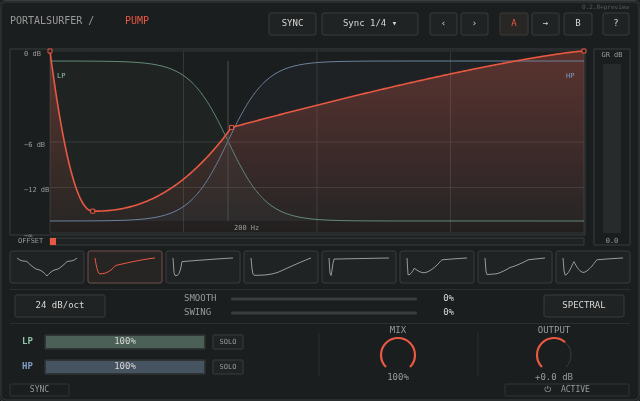
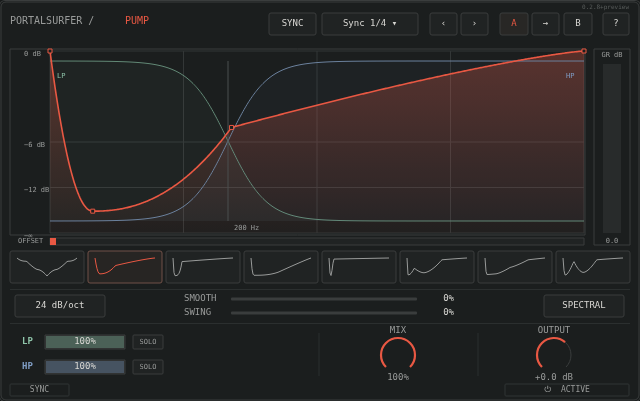
Halve LP/HP mix bar widths

diff --git a/frame-standalone.html b/frame-standalone.html
@@ -128,7 +128,7 @@ button:focus-visible, select:focus-visible { outline: 2px solid #e95843; outline
       for(let i=0;i<24;i++){const v=.12+.7*Math.exp(-Math.pow((i-9)/3,2));c.fillStyle='#526576';c.fillRect(435+i*5.5,83+35*(1-v),3,35*v);}text(c,'EXT · ILLUSTRATIVE',435,125,6,C.muted);
     }
     for(const dx of [319,478]){c.strokeStyle='#2b2f2f';c.beginPath();c.moveTo(dx,332);c.lineTo(dx,375);c.stroke();}
-    mixRow(c,'LP',22,341,1,C.low,126);mixRow(c,'HP',22,366,1,C.blue,126);knob(c,'MIX','100%',398,354,1);knob(c,'OUTPUT','+0.0 dB',554,354,.65);
+    mixRow(c,'LP',22,341,1,C.low,46);mixRow(c,'HP',22,366,1,C.blue,46);knob(c,'MIX','100%',398,354,1);knob(c,'OUTPUT','+0.0 dB',554,354,.65);
     rect(c,10,383,59,12,1,C.bg,'#303434');alignedText(c,'SYNC',39.5,389,8,C.muted);rect(c,505,383,124,12,1,C.bg,'#303434');alignedText(c,'⏻  ACTIVE',567,389,8,C.muted);
   }
   Frame.register({id:'pump',name:'Pump · Dual band',width:640,height:400,paint(c){shell(c,'dual');}});

diff --git a/examples/pump.js b/examples/pump.js
@@ -41,7 +41,7 @@
       for(let i=0;i<24;i++){const v=.12+.7*Math.exp(-Math.pow((i-9)/3,2));c.fillStyle='#526576';c.fillRect(435+i*5.5,83+35*(1-v),3,35*v);}text(c,'EXT · ILLUSTRATIVE',435,125,6,C.muted);
     }
     for(const dx of [319,478]){c.strokeStyle='#2b2f2f';c.beginPath();c.moveTo(dx,332);c.lineTo(dx,375);c.stroke();}
-    mixRow(c,'LP',22,341,1,C.low,126);mixRow(c,'HP',22,366,1,C.blue,126);knob(c,'MIX','100%',398,354,1);knob(c,'OUTPUT','+0.0 dB',554,354,.65);
+    mixRow(c,'LP',22,341,1,C.low,46);mixRow(c,'HP',22,366,1,C.blue,46);knob(c,'MIX','100%',398,354,1);knob(c,'OUTPUT','+0.0 dB',554,354,.65);
     rect(c,10,383,59,12,1,C.bg,'#303434');alignedText(c,'SYNC',39.5,389,8,C.muted);rect(c,505,383,124,12,1,C.bg,'#303434');alignedText(c,'⏻  ACTIVE',567,389,8,C.muted);
   }
   Frame.register({id:'pump',name:'Pump · Dual band',width:640,height:400,paint(c){shell(c,'dual');}});
